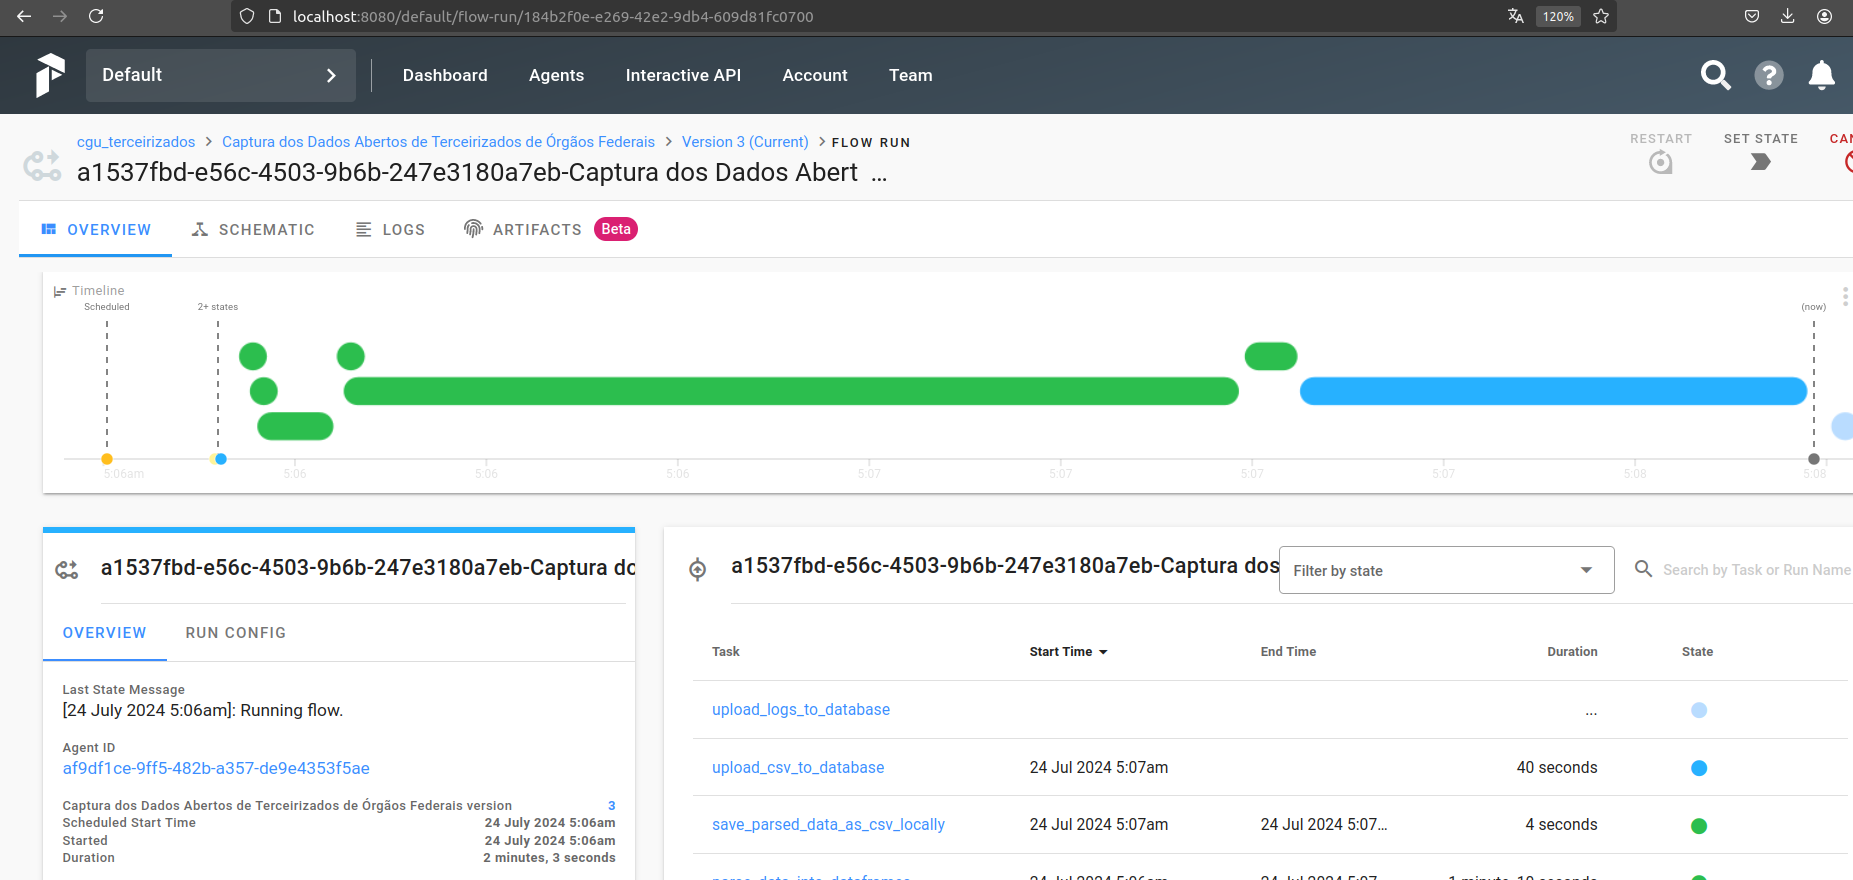
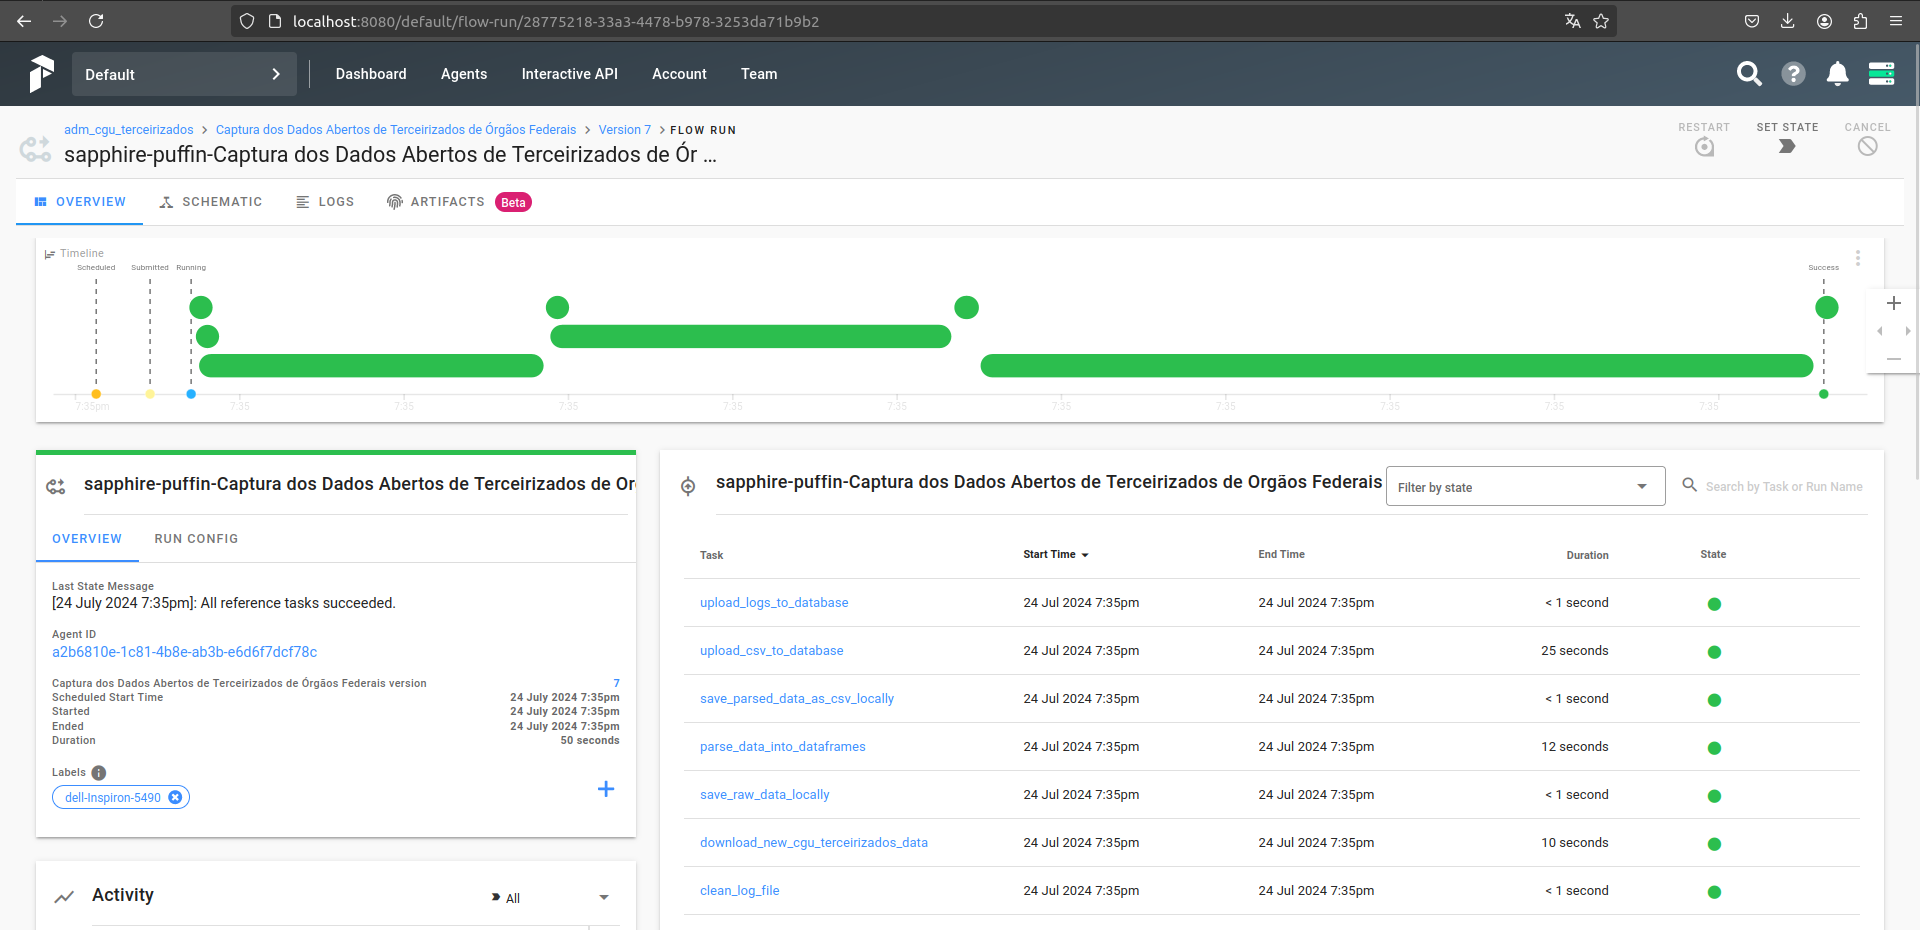
Cleaned old logs + added Schedule Flow to schedules.py

diff --git a/flows.py b/flows.py
@@ -3,96 +3,69 @@ from prefect import Flow
 from tasks import (
     setup_log_file,
     clean_log_file,
-
     download_new_cgu_terceirizados_data,
     save_raw_data_locally,
     parse_data_into_dataframes,
     save_parsed_data_as_csv_locally,
     upload_csv_to_database,
     upload_logs_to_database,
-
     run_dbt
 )
 
 # Executar Captura e Materialização a cada ~4 meses.
 with Flow("Captura dos Dados Abertos de Terceirizados de Órgãos Federais") as capture:
-    # # SETUP #
+    # SETUP #
     logFilePath = setup_log_file("logs/logs__capture.txt")
     cleanStart = clean_log_file(logFilePath)
-
-    # # EXTRACT #
+    # EXTRACT #
     rawData = download_new_cgu_terceirizados_data(cleanStart)
     rawFilePaths = save_raw_data_locally(rawData)
-    
-    # # CLEAN #
+    # CLEAN #
     parsedData = parse_data_into_dataframes(rawFilePaths)
     parsedFilePaths = save_parsed_data_as_csv_locally(parsedData)
-
     # LOAD #
     status = upload_csv_to_database(parsedFilePaths, "raw")
     logStatus = upload_logs_to_database(status, "logs/logs__capture.txt", "logs__capture")
 
 
 with Flow("Materialização dos Dados Abertos de Terceirizados de Órgãos Federais") as materialize:
-    # # SETUP #
+    # SETUP #
     logFilePath = setup_log_file("logs/logs__materialize.txt")
     cleanStart = clean_log_file(logFilePath)
-
     # TRANSFORM #
     columns = run_dbt(cleanStart)
-
-    #LOAD
+    # LOAD #
     logStatus = upload_logs_to_database(columns, "logs/logs__materialize.txt", "logs__materialize")
 
-# Executar captura de dados históricos
-# with Flow("Dados Abertos de Terceirizados de Órgãos Federais - Captura dos Dados Históricos") as captureAll:
-#     # # SETUP #
-#     # # EXTRACT #
-#     #rawData = download_historic_cgu_terceirizados_data
-#     rawFilePaths = save_raw_data_locally(rawData)
-    
-#     # # CLEAN #
-#     parsedData = parse_data_into_dataframes(rawFilePaths)
-#     parsedFilePaths = save_parsed_data_as_csv_locally(parsedData)
-
-#     # LOAD #
-#     status = upload_csv_to_database(parsedFilePaths, "historico")
-#     logStatus = upload_logs_to_database(status)
-
-#     # # DEPLOY? #
-
-
-# with Flow("Dados Abertos de Terceirizados de Órgãos Federais - Materialização dos Dados Históricos") as materializeAll:
-#    # columns = rename_columns_following_style_manual("historico")
-#    status = set_columns_types("123")
-
-from prefect.schedules import Schedule
-from prefect.schedules.clocks import IntervalClock
-from datetime import timedelta, datetime
-from prefect.tasks.prefect import (
-    create_flow_run,
-    wait_for_flow_run
-)
-
-# A cada 10 minutos -- demo
-schedule = Schedule(
-    clocks=[IntervalClock(timedelta(minutes=5))]
-)
-with Flow("Cronograma Padrão seguindo a Disponibilização dos Dados Abertos pela Controladoria Geral da União",
-           schedule=schedule) as schedule:
-    # Captura
-    capture_flow_run = create_flow_run(
-        flow_name="Captura dos Dados Abertos de Terceirizados de Órgãos Federais",
-        project_name="adm_cgu_terceirizados")
-    capture_flow_state = wait_for_flow_run(capture_flow_run, raise_final_state=True)
-
-    # Materialização
-    materialize_flow_run = create_flow_run(
-        flow_name="Materialização dos Dados Abertos de Terceirizados de Órgãos Federais",
-        project_name="adm_cgu_terceirizados"
-    )
-    
-# Registra Flows no Project do Prefect http://localhost:8080
 capture.register(project_name="adm_cgu_terceirizados")
 materialize.register(project_name="adm_cgu_terceirizados")
-schedule.register(project_name="adm_cgu_terceirizados")
+
+
+# Executar Captura e Materialização Histórica uma vez.
+with Flow("Captura Histórica dos Dados Abertos de Terceirizados de Órgãos Federais") as historic_capture:
+    # SETUP #
+    logFilePath = setup_log_file("logs/logs__historic_capture.txt")
+    cleanStart = clean_log_file(logFilePath)
+    # EXTRACT #
+    rawData = download_new_cgu_terceirizados_data(cleanStart)
+    rawFilePaths = save_raw_data_locally(rawData)
+    # CLEAN #
+    parsedData = parse_data_into_dataframes(rawFilePaths)
+    parsedFilePaths = save_parsed_data_as_csv_locally(parsedData)
+    # LOAD #
+    status = upload_csv_to_database(parsedFilePaths, "raw")
+    logStatus = upload_logs_to_database(status, "logs/logs__historic_capture.txt", "logs__historic_capture")
+
+with Flow("Materialização Histórica dos Dados Abertos de Terceirizados de Órgãos Federais") as historic_materialize:
+    # SETUP #
+    logFilePath = setup_log_file("logs/logs__historic_materialize.txt")
+    cleanStart = clean_log_file(logFilePath)
+    # TRANSFORM #
+    columns = run_dbt(cleanStart)
+    # LOAD #
+    logStatus = upload_logs_to_database(columns, "logs/logs__historic_materialize.txt", "logs__historic_materialize")
+
+historic_capture.register(project_name="adm_cgu_terceirizados")
+historic_materialize.register(project_name="adm_cgu_terceirizados")
+
+## Flow de Schedule definido em ./schedules.py ##

diff --git a/schedules.py b/schedules.py
@@ -1,5 +1,48 @@
-from flows import capture, materialize, schedule
+from prefect import Flow
+import threading
+from prefect.schedules import Schedule
+from prefect.schedules.clocks import IntervalClock
+from datetime import timedelta, datetime
+from utils import start_agent, log
+from prefect.tasks.prefect import (
+    create_flow_run,
+    wait_for_flow_run
+)
+from prefect.agent.local import LocalAgent
+import threading
 
-# capture.run()
-schedule.run()
-# materialize.run()
+def start_schedule_flow():
+    # DEMO: de 5 em 5 minutoes , Produção: de 4 em 4 meses com start_date=datetime("1/5/2024")
+    schedule = Schedule(
+        clocks=[IntervalClock(timedelta(minutes=5))]
+    )
+
+    # Flow de Cronograma pipilene adm_cgu_terceirizados
+    with Flow("Cronograma Padrão seguindo a Disponibilização dos Dados Abertos pela Controladoria Geral da União", schedule=schedule) as schedule:
+        # Captura
+        log(f"Criando Run de Flow de Captura para daqui à {timedelta(minutes=5)}.")
+        capture_flow_run = create_flow_run(
+            flow_name="Captura dos Dados Abertos de Terceirizados de Órgãos Federais",
+            project_name="adm_cgu_terceirizados"
+        )
+        log("Run de Flow de Captura criada.")
+
+        capture_flow_state = wait_for_flow_run(capture_flow_run, raise_final_state=True)
+
+        log(f"Criando Run de Flow de Materialização.")
+        # Materialização
+        materialize_flow_run = create_flow_run(
+            flow_name="Materialização dos Dados Abertos de Terceirizados de Órgãos Federais",
+            project_name="adm_cgu_terceirizados"
+        )
+        log("Run de Flow de Materialização criada.")
+
+    schedule.register(project_name="adm_cgu_terceirizados")
+
+# Start the scheduling flow in a separate thread
+schedule_thread = threading.Thread(target=start_schedule_flow)
+schedule_thread.start()
+
+# Start the Prefect agent in the main thread
+agent = LocalAgent()
+agent.start()

diff --git a/utils.py b/utils.py
@@ -8,11 +8,12 @@ from prefect.engine.signals import FAIL
 from prefect.engine.state import Failed
 from prefect.schedules import Schedule
 from prefect.schedules.clocks import CronClock
+from prefect.agent.local import LocalAgent
 
 from bs4 import BeautifulSoup
 from datetime import timedelta, datetime
 from psycopg2 import sql
-
+from prefect.agent.local import LocalAgent
 # as funções auxiliares que serão utilizadas nos Flows.
 
 def log(message) -> None:
@@ -24,6 +25,11 @@ def log_and_propagate_error(message, returnObj) -> None:
     returnObj['error'] = message
     log(message)
     raise FAIL(result=returnObj)
+
+def start_agent():
+    """Começa um Agente Prefect local no processo"""
+    agent = LocalAgent()
+    agent.start()
 
 def connect_to_postgresql():
     """Conecta à base de dados PostgreSQL"""
